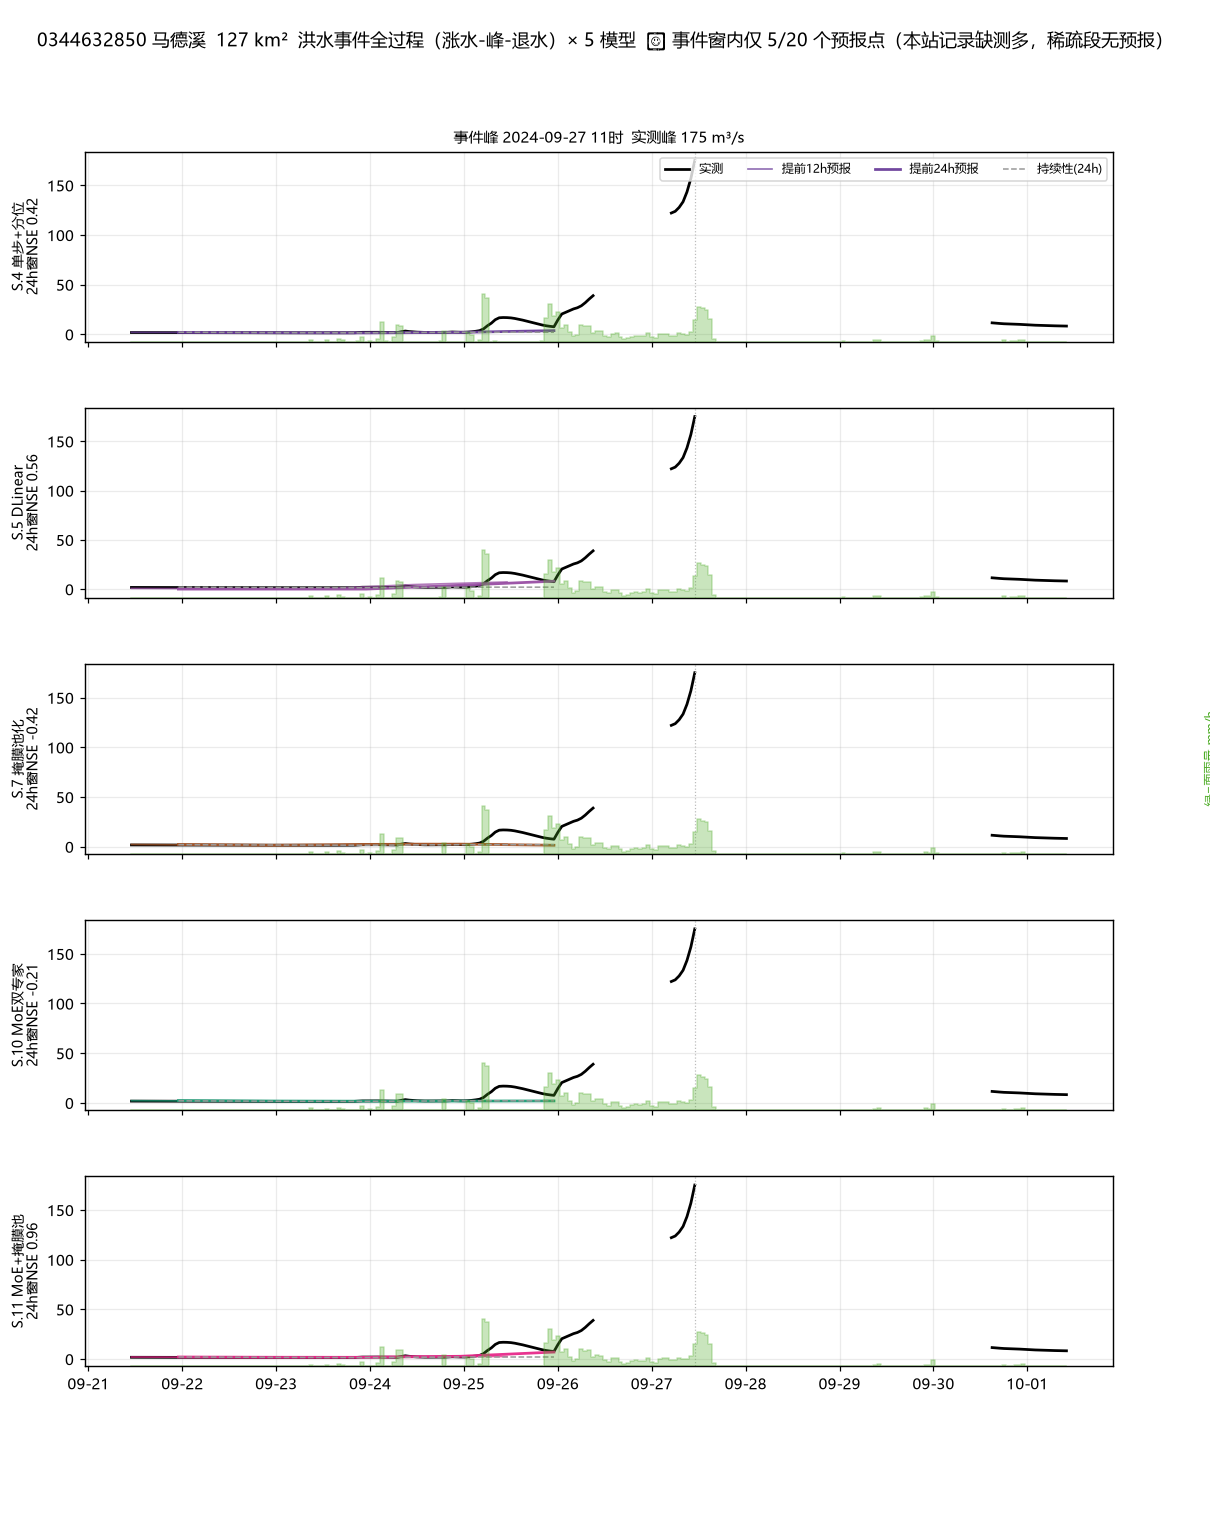
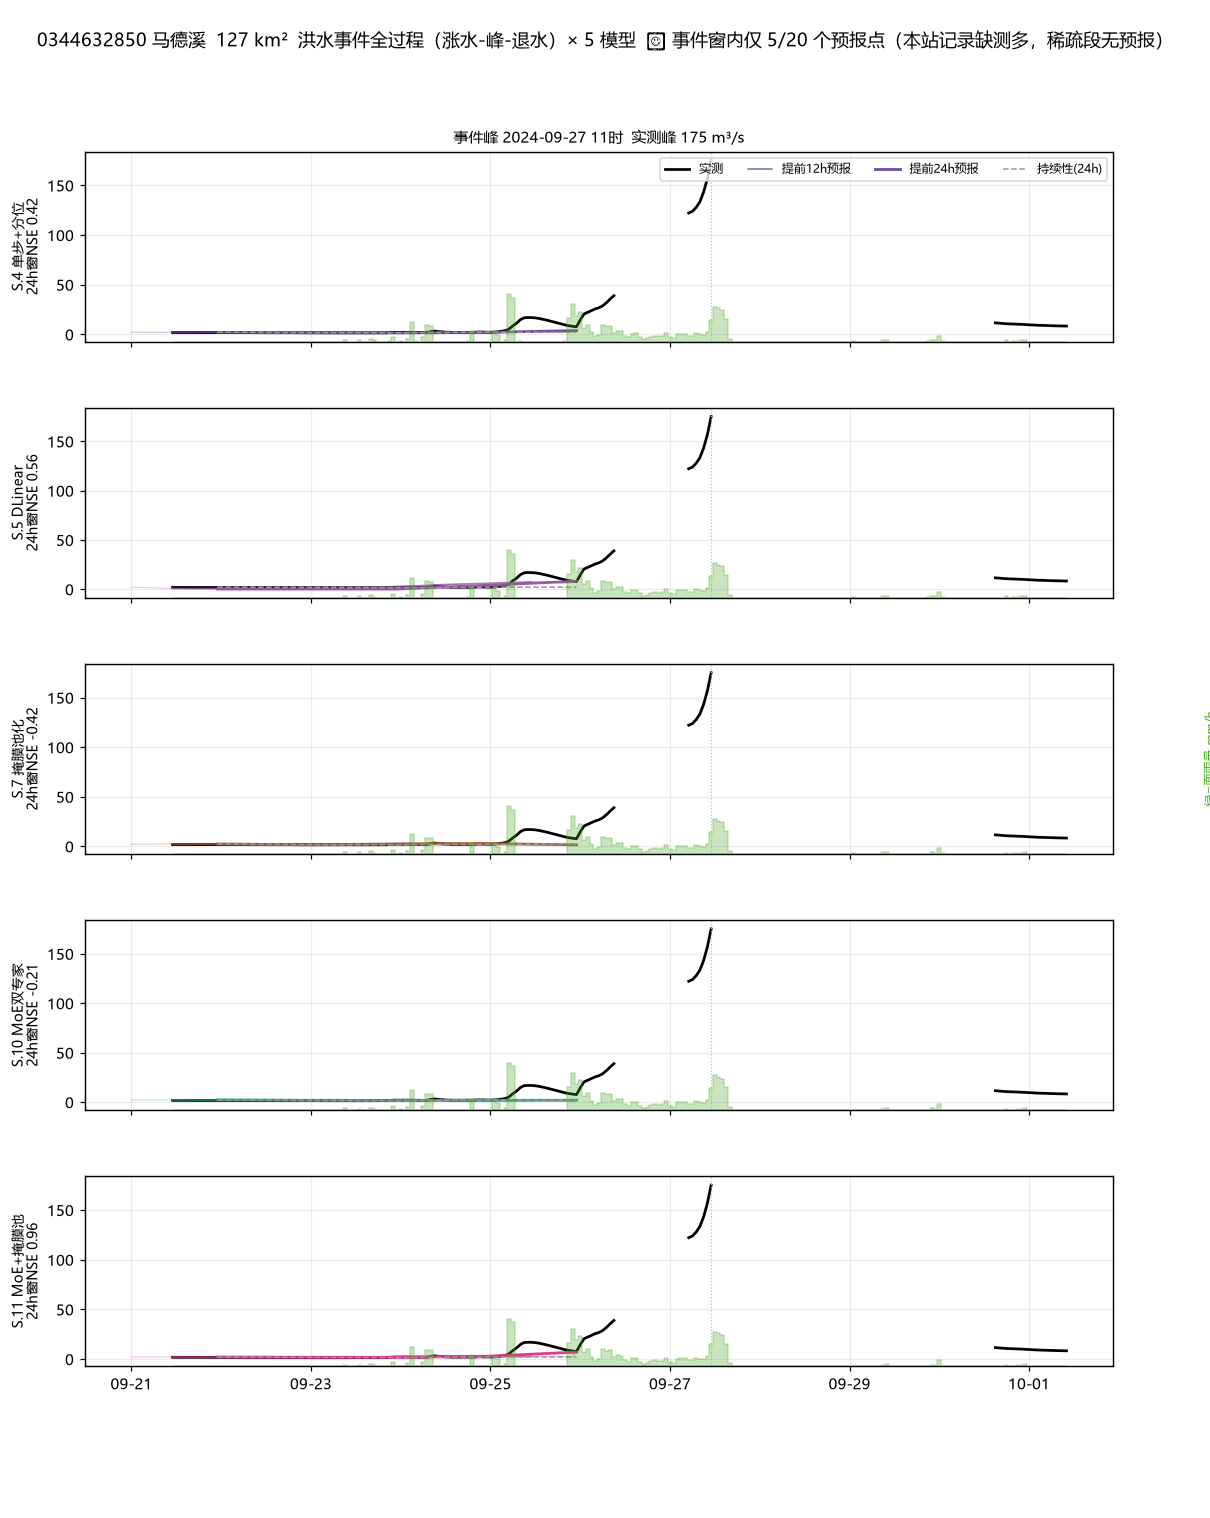
事件图v2：叠加完整24h逐小时轨迹；"折线"一半系12h抽样画图假象，一半是单步滚动路线真短板
- 模型单条rollout实为平滑曲线；真问题是洪水加速度被系统性磨平
  （弗莱彻：实测532→1897涨速+180/h，S.10预报536→711封顶+19/h）
- 机制与对策记入schemes.md：展开式训练+洪水样本加权

diff --git a/scripts/plot_event.py b/scripts/plot_event.py
@@ -132,6 +132,14 @@ def main():
         for r, (lab, d, col) in enumerate(runs):
             ax = axes[r]
             ax.plot(tt, obs_win, color="black", lw=1.8, label="实测")
+            # 每条起报的完整 24h 逐小时预报轨迹（细线，显示模型真实输出的
+            # 时间粒度； stitched 折线是 12h 抽样连线的画图假象）
+            mk = d["site"] == i
+            t0s = d["t0"][mk]
+            sel = (t0s + LOOKBACK >= lo - 24) & (t0s + LOOKBACK < hi)
+            for a, row in zip(t0s[sel], d["sim"][mk][sel]):
+                tt_a = times[a + LOOKBACK: a + LOOKBACK + len(row)]
+                ax.plot(tt_a, d["inv"](row, i), color=col, lw=0.7, alpha=0.30)
             nse24 = np.nan
             n_lt = 0
             for lead in LEADS:

diff --git a/experiments/schemes.md b/experiments/schemes.md
@@ -327,6 +327,21 @@ S 系输入定稿（取代 B 节旧输入）：
   （候选：双池化并存——掩膜池化与全局池化特征拼接，既校准小站又
   保留幅度信息；或门控输入加站点 embedding）。
 
+### 事件全过程图诊断（2026-09-26，plot_event.py → experiments/forecast_event/）
+
+- 图型：每站取测试段最大事件，峰前 6d~峰后 4d，画实测、提前 12h/24h 连续
+  预报曲线、持续性、面雨量；v2 起叠加**每条起报的完整 24h 逐小时轨迹**（细线）。
+- 用户判读"预报全是折线=模型没拟合"的核实：**折线一半是画图假象**
+  （12h 抽样点连线，模型单条 rollout 实为平滑逐小时曲线，增量连续）；
+  **另一半是真问题**——弗莱彻峰前 24h 锚点：实测 532→1897（峰值涨速 +180/h），
+  S.10 预报 536→711 即见顶（最大步增 +19/h）。模型对洪水加速度系统性磨平：
+  输出是"保守趋势外推"，非全过程拟合。
+- 机制：单步 pinball 损失下模型输出条件分位中位数，不确定时回归保守中道；
+  滚动时预测值自我回灌，偏离实测后雨→流增益饱和，增量自发衰减 →
+  走廊滞后+削峰。这是单步+滚动路线的结构性短板，调参解决不了；
+  对症方向 = 展开式训练（S.3 已证方向对，当时视界 12<24）+ 洪水样本加权
+  （现 E1 权重对涨水样本是反向压缩）。
+
 ## H. 数据侧新发现（2026-09-24/25，独立于我方模型）
 
 - **H.1 Helene 外推**：Helene（2024-09-27，纽波特 3908 m³/s）为全期最大事件，是训练段最大（2020-02，1506）的
